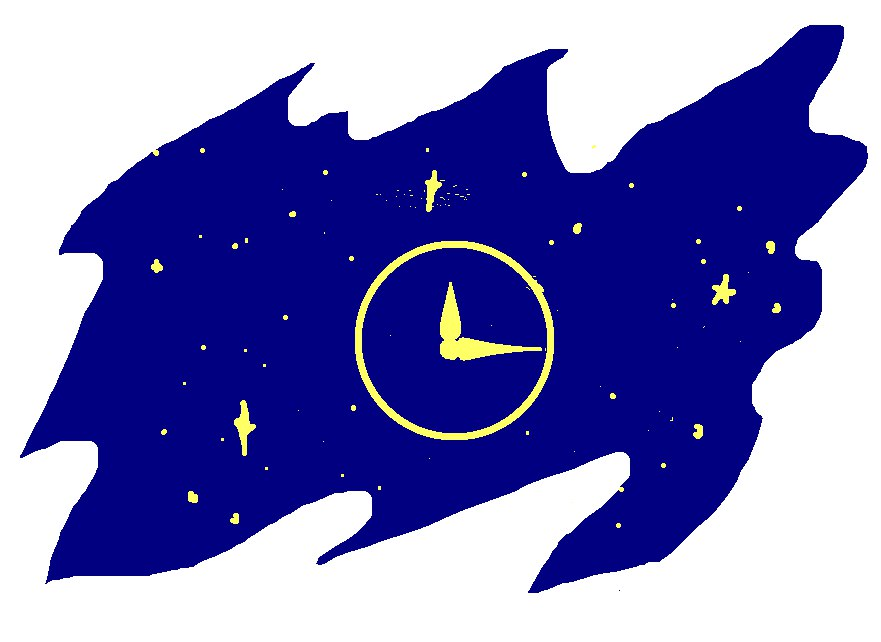
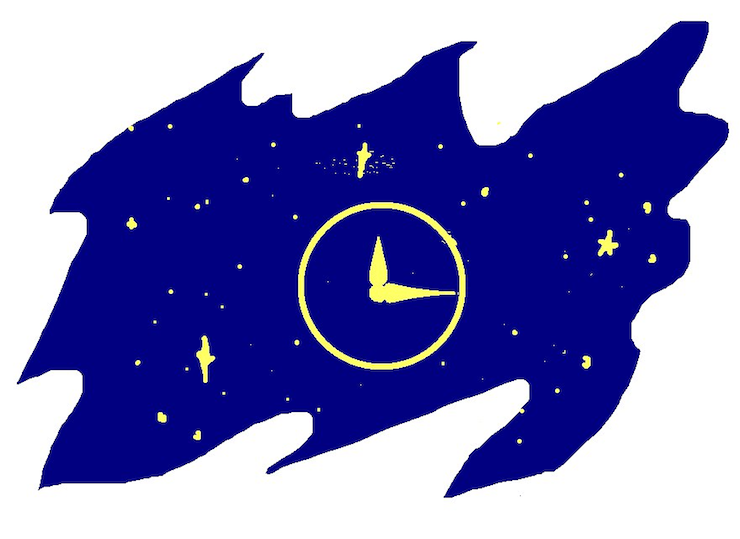
Fix the images size.

diff --git a/_posts/2017-10-30-utc-a-time-standard-or-a-time-zone.md b/_posts/2017-10-30-utc-a-time-standard-or-a-time-zone.md
@@ -11,7 +11,7 @@ The short answer is **both**. Let me explain.
 
 There are some [popular resources](https://www.timeanddate.com/time/gmt-utc-time.html) which clearly state that UTC is not a time zone, but a time standard. However, on some operating systems you can find UTC in the list of time zones. Also in Java, for example, this simple call `TimeZone.getTimeZone("UTC")` does return a `TimeZone` object without any problem.
 
-<img alt="UTC as time zone in Windows" src="{{ site.url }}/assets/utc-as-time-zone-in-windows.png" height="300">
+<img alt="UTC as time zone in Windows" src="{{ site.url }}/assets/utc-as-time-zone-in-windows.png">
 
 Let's finally clarify what UTC is. To do this, we have to understand the difference between a time standard and a time zone.
 
@@ -21,7 +21,7 @@ When discussing an event, we want to be able to identify when it happened (or wh
 
 You can think of UTC (or any other time standard) as a big clock in the middle of the Universe, common to everyone.
 
-<img alt="Big UTC Clock" src="{{ site.url }}{{ page.image }}" height="300">
+<img alt="Big UTC Clock" src="{{ site.url }}{{ page.image }}">
 
 ### What Is A Time Zone?
 
